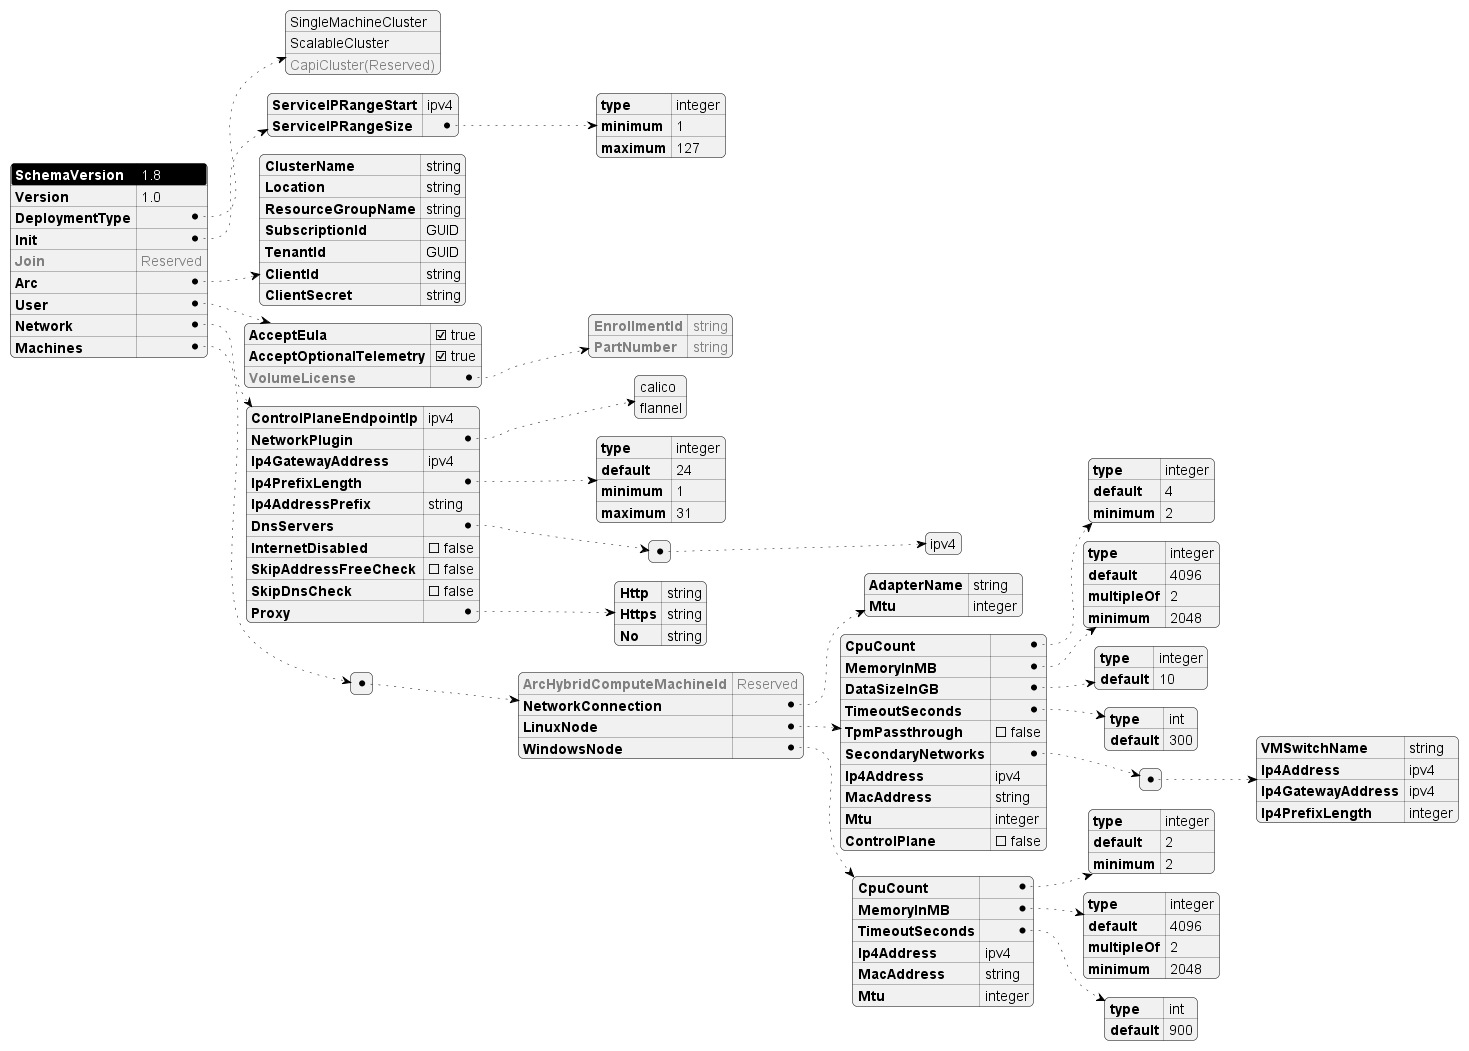
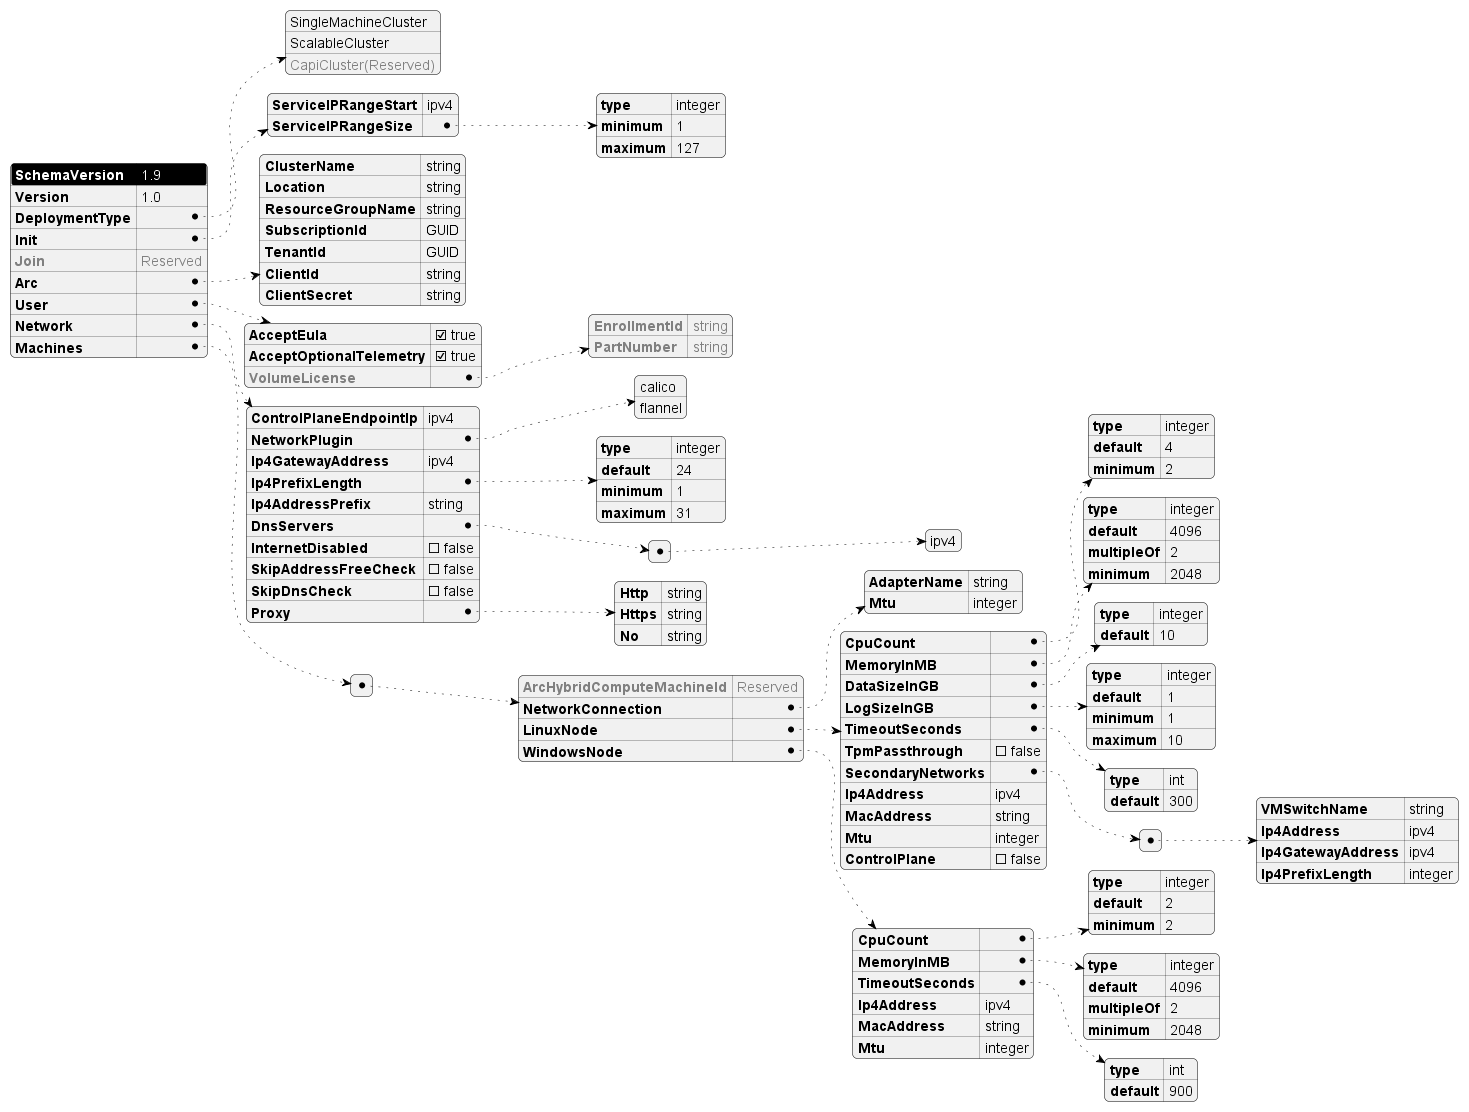
Updated the json schema version to 1.9 (#144)
* Updated the json schema version to 1.9
* Removed comment from the schema diagram and updated the ps script version

diff --git a/tools/modules/AksEdgeDeploy/README.md b/tools/modules/AksEdgeDeploy/README.md
@@ -20,7 +20,7 @@ The `Start-AideWorkflow` function in the modole does the following:
         "Version": "1.0",
         "AksEdgeProduct" : "AKS Edge Essentials - K3s",
         "AksEdgeConfig": {
-            "SchemaVersion": "1.8",
+            "SchemaVersion": "1.9",
             "Version": "1.0",
             "DeploymentType": "SingleMachineCluster",
             "Init": {
